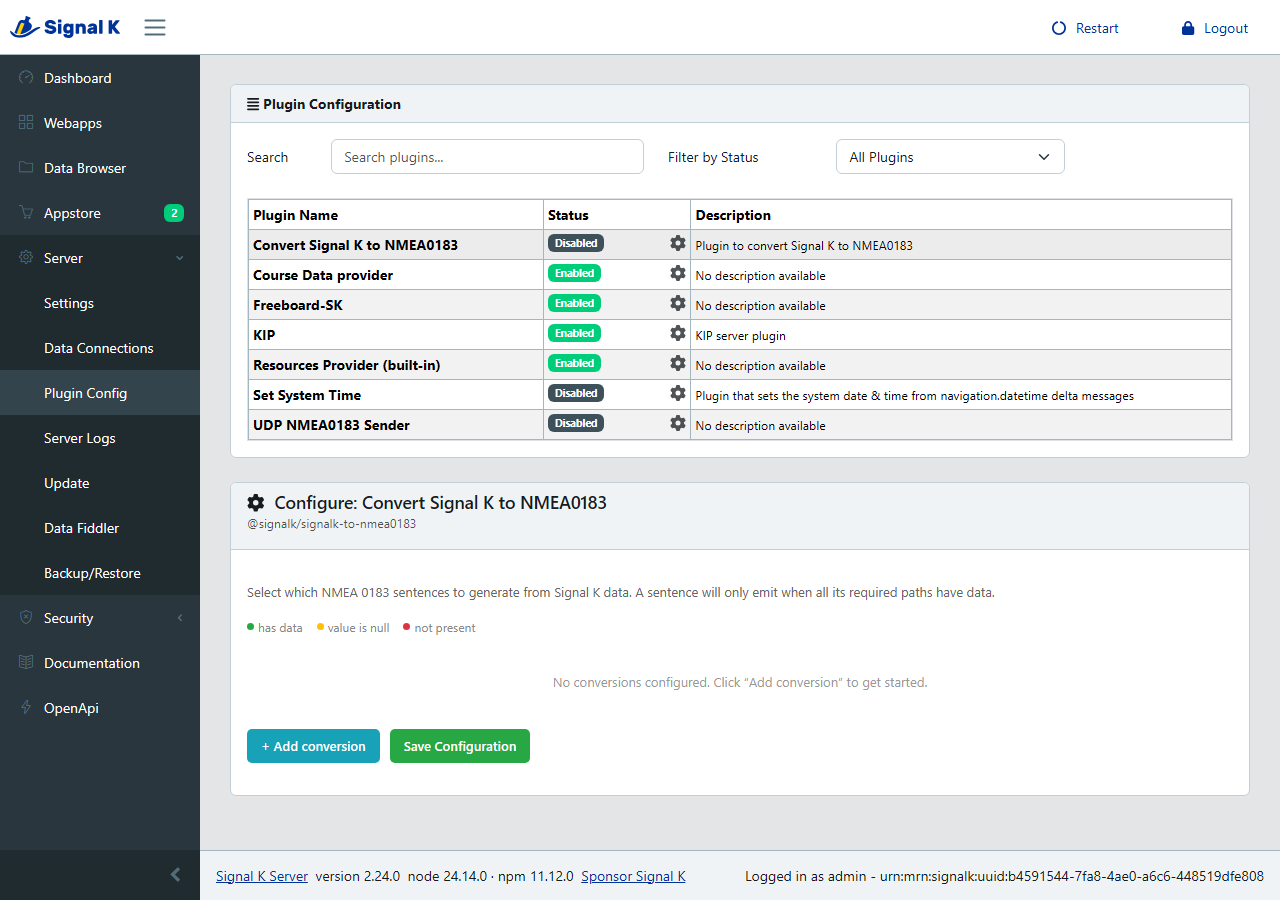
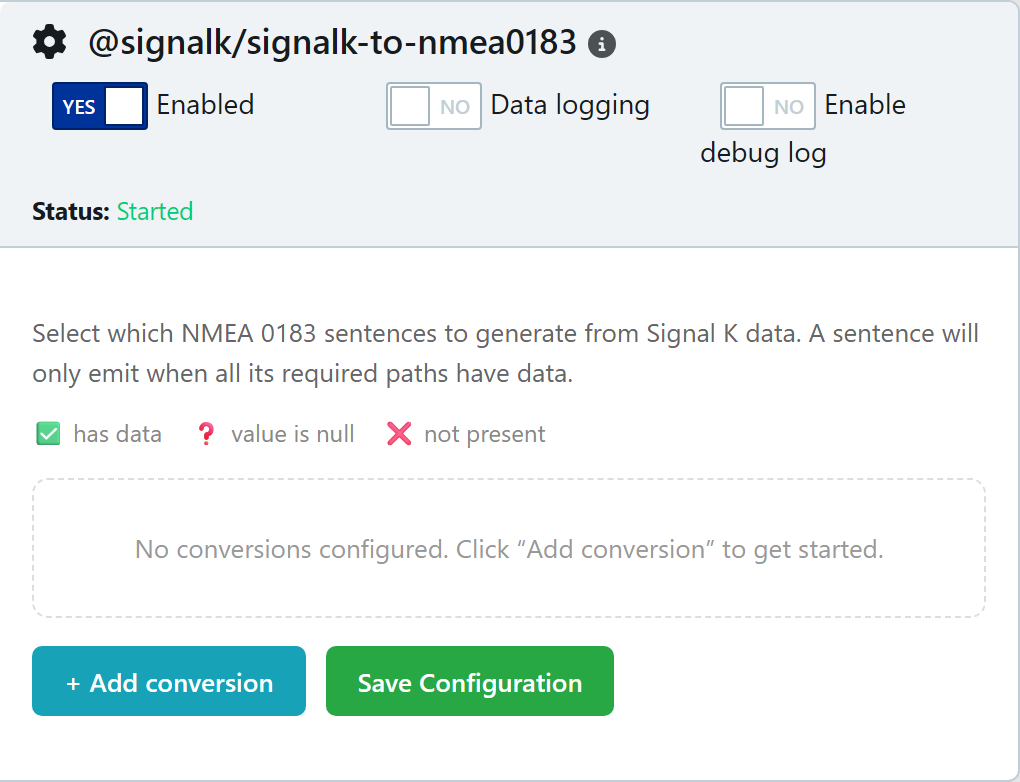
refactor: drop FontAwesome; use Unicode path-status glyphs and inline trash SVG
Per-path status indicators switch from colored dots to Unicode emoji
(✅ has data, ❓ value is null, ❌ not present), matching the README
legend. The remove button uses an inline SVG trash icon styled as a
small red-outlined button so the delete action reads clearly. No new
deps — both SVG and Unicode are browser-native and work on older SK
admin UIs.

Per PR #154 review feedback (tkurki): avoids pulling FontAwesome into
the federated bundle while keeping path status more glanceable than
colored dots.

Screenshots regenerated.

Pull request: Restructure configuration with custom config panel
Replaces the flat list of boolean toggles and throttle fields with an array-based configuration and a custom React config panel.

## What changed

The plugin now uses a table-based configuration UI (Module Federation, same pattern as app-dock). Each row shows the sentence, its required Signal K paths with live data availability indicators, an optional emission interval, and an optional custom event name.

![Configured table](https://raw.githubusercontent.com/msallin/signalk-to-nmea0183/feat/config-restructure/docs/screenshots/02-table-configured.png)

The schema-based form remains as fallback for server versions without `signalk-plugin-configurator` support. It uses `plugin.schema()` as a function (same as signalk-derived-data) so path indicators stay current.

Legacy boolean configs are migrated at startup transparently.

## Details

- Custom React config panel via Module Federation (`src/configpanel/`)
- `plugin.schema` is now a function with path indicators via `app.getSelfPath()`
- Array-based config with sentence dropdown, throttle, and custom event name per entry
- 24 new tests, 110 total passing

Closes #120

diff --git a/src/configpanel/PluginConfigurationPanel.tsx b/src/configpanel/PluginConfigurationPanel.tsx
@@ -50,11 +50,24 @@ interface SentenceInfo {
   paths: string[]
 }
 
-// Path-status values mirror the schema indicators:
-//   'ok'      -> path has data         (\uD83D\uDC4D)
-//   'null'    -> path exists, null     (\u274E)
-//   'missing' -> path absent from tree (\u274C)
+// Path-status values mirror the README's icon legend so the UI and the
+// docs use exactly the same vocabulary:
+//   'ok'      -> path has data         (✅ White Heavy Check Mark)
+//   'null'    -> path exists, null     (❓ Black Question Mark Ornament)
+//   'missing' -> path absent from tree (❌ Cross Mark)
 type PathStatus = 'ok' | 'null' | 'missing'
+
+const STATUS_ICON: Record<PathStatus, string> = {
+  ok: '✅',
+  null: '❓',
+  missing: '❌'
+}
+
+const STATUS_LABEL: Record<PathStatus, string> = {
+  ok: 'has data',
+  null: 'value is null',
+  missing: 'not present'
+}
 
 // ---------------------------------------------------------------------------
 // Styles
@@ -109,13 +122,17 @@ const S: Record<string, CSSProperties> = {
     background: '#fff'
   },
   removeBtn: {
-    background: 'transparent',
-    border: 'none',
-    color: '#dc3545',
+    display: 'inline-flex',
+    alignItems: 'center',
+    justifyContent: 'center',
+    width: 34,
+    height: 34,
+    padding: 0,
+    background: '#fff',
+    border: '1.5px solid #ef6b6b',
+    borderRadius: 8,
+    color: '#ef6b6b',
     cursor: 'pointer',
-    fontSize: 18,
-    padding: '2px 8px',
-    lineHeight: 1,
     flexShrink: 0
   },
   pathBox: {
@@ -142,15 +159,11 @@ const S: Record<string, CSSProperties> = {
     fontFamily: 'SFMono-Regular, Consolas, monospace',
     wordBreak: 'break-all'
   },
-  dot: {
-    width: 8,
-    height: 8,
-    borderRadius: '50%',
-    flexShrink: 0
+  statusIcon: {
+    fontSize: 12,
+    flexShrink: 0,
+    lineHeight: 1
   },
-  dotOk: { background: '#28a745' },
-  dotNull: { background: '#ffc107' },
-  dotMissing: { background: '#dc3545' },
   fields: {
     display: 'flex',
     flexWrap: 'wrap',
@@ -270,13 +283,9 @@ export default function PluginConfigurationPanel({
   const getSentenceInfo = (key: string): SentenceInfo | undefined =>
     sentences.find((s) => s.key === key)
 
-  const dotStyleFor = (p: string): CSSProperties => {
-    const s = pathStatus[p]
-    return {
-      ...S.dot,
-      ...(s === 'ok' ? S.dotOk : s === 'null' ? S.dotNull : S.dotMissing)
-    }
-  }
+  // Default missing entries to 'missing' so the icon stays meaningful before
+  // the first vessel fetch resolves and for paths the tree never carries.
+  const statusFor = (p: string): PathStatus => pathStatus[p] ?? 'missing'
 
   return (
     <div style={S.root}>
@@ -286,15 +295,14 @@ export default function PluginConfigurationPanel({
       </div>
 
       <div style={S.legend}>
-        <span style={S.legendItem}>
-          <span style={{ ...S.dot, ...S.dotOk }} /> has data
-        </span>
-        <span style={S.legendItem}>
-          <span style={{ ...S.dot, ...S.dotNull }} /> value is null
-        </span>
-        <span style={S.legendItem}>
-          <span style={{ ...S.dot, ...S.dotMissing }} /> not present
-        </span>
+        {(['ok', 'null', 'missing'] as const).map((s) => (
+          <span key={s} style={S.legendItem}>
+            <span style={S.statusIcon} aria-hidden="true">
+              {STATUS_ICON[s]}
+            </span>{' '}
+            {STATUS_LABEL[s]}
+          </span>
+        ))}
       </div>
 
       {conversions.length === 0 ? (
@@ -323,10 +331,10 @@ export default function PluginConfigurationPanel({
                 <button
                   style={S.removeBtn}
                   onClick={() => removeRow(i)}
-                  title="Remove"
+                  title="Remove conversion"
                   aria-label="Remove conversion"
                 >
-                  {'\u2715'}
+                  <TrashIcon />
                 </button>
               </div>
 
@@ -334,12 +342,17 @@ export default function PluginConfigurationPanel({
                 <div style={S.pathBox}>
                   <div style={S.pathLabel}>Required Signal K paths</div>
                   <ul style={S.pathList}>
-                    {info.paths.map((p) => (
-                      <li key={p} style={S.pathItem}>
-                        <span style={dotStyleFor(p)} />
-                        {p}
-                      </li>
-                    ))}
+                    {info.paths.map((p) => {
+                      const s = statusFor(p)
+                      return (
+                        <li key={p} style={S.pathItem}>
+                          <span style={S.statusIcon} title={STATUS_LABEL[s]}>
+                            {STATUS_ICON[s]}
+                          </span>
+                          {p}
+                        </li>
+                      )
+                    })}
                   </ul>
                 </div>
               )}
@@ -389,6 +402,33 @@ export default function PluginConfigurationPanel({
         )}
       </div>
     </div>
+  )
+}
+
+// ---------------------------------------------------------------------------
+// Icons
+// ---------------------------------------------------------------------------
+
+// Inline trashcan glyph. Kept inline (rather than emoji or a font dep) so the
+// button can be styled to read as a button rather than as decoration: the
+// stroke picks up `currentColor` from the surrounding button.
+function TrashIcon(): React.ReactElement {
+  return (
+    <svg
+      width="16"
+      height="16"
+      viewBox="0 0 24 24"
+      fill="none"
+      stroke="currentColor"
+      strokeWidth={2}
+      strokeLinecap="round"
+      strokeLinejoin="round"
+      aria-hidden="true"
+    >
+      <path d="M3 6h18M8 6V4a2 2 0 0 1 2-2h4a2 2 0 0 1 2 2v2m3 0v14a2 2 0 0 1-2 2H7a2 2 0 0 1-2-2V6" />
+      <line x1="10" y1="11" x2="10" y2="17" />
+      <line x1="14" y1="11" x2="14" y2="17" />
+    </svg>
   )
 }
 

diff --git a/README.md b/README.md
@@ -32,8 +32,8 @@ with Node `>=22`.
 1. Enable the plugin in the server admin UI (_Server → Plugin Config →
    Convert Signal K to NMEA0183_) and add a row per sentence you want
    emitted. Each row shows the required Signal K paths with live
-   availability indicators (green = has data, yellow = null, red =
-   missing) so you can see at a glance what is wired up.
+   availability icons (✅ has data, ❓ value is null, ❌ not present)
+   so you can see at a glance what is wired up.
 2. Connect any NMEA 0183 client (OpenCPN, kplex, netcat, ...) to
    `localhost:10110` — the server's built-in TCP NMEA 0183 server.
 